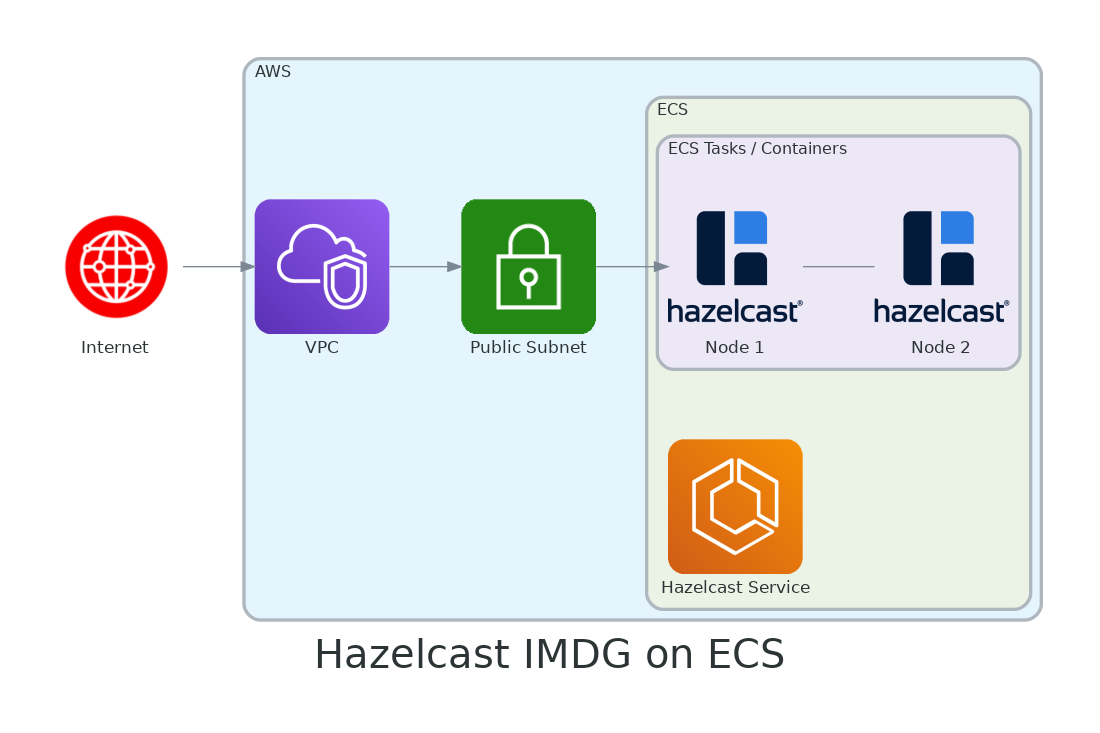
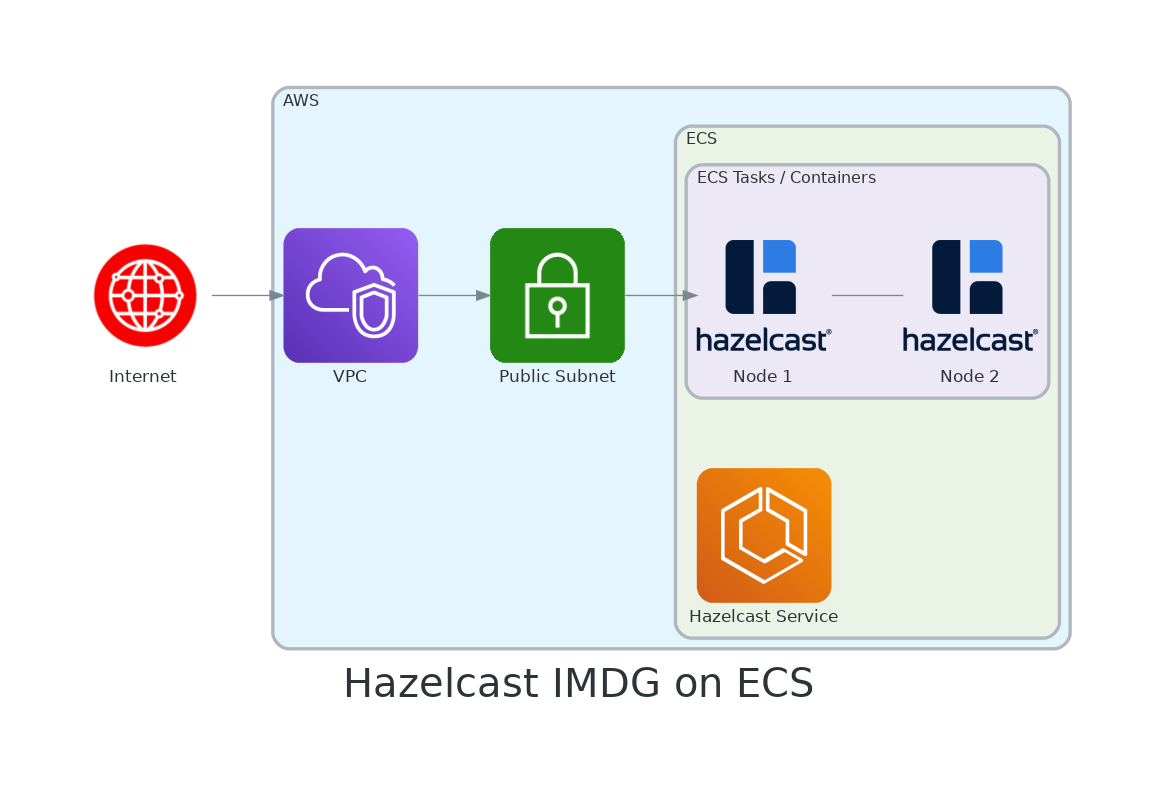
Decrease diagram size

Changed region(s): [[0.0618, 0.06, 0.9582, 0.9304]]

diff --git a/diagrams/architecture.py b/diagrams/architecture.py
@@ -10,7 +10,7 @@ graph_attr = {
     "bgcolor": "transparent",
     "penwidth": "2.5",
     "pencolor": "'black'",
-    "pad": "0.5",
+    "pad": "0.8",
     "fixedsize": "shape",
     "width": "10.0"
 }
